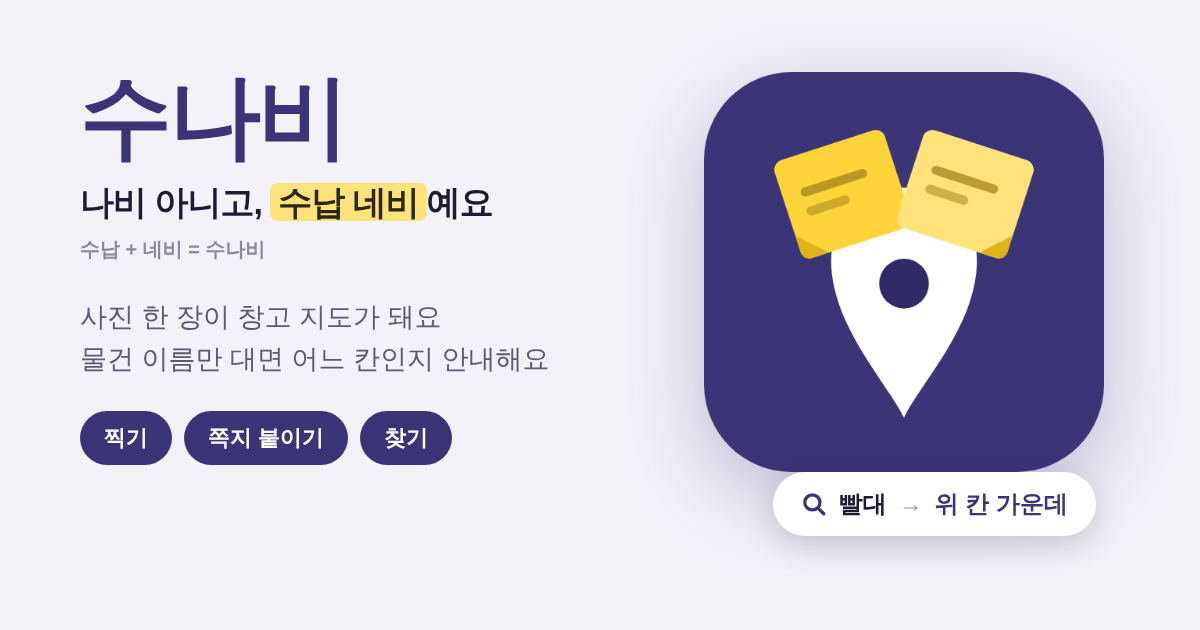
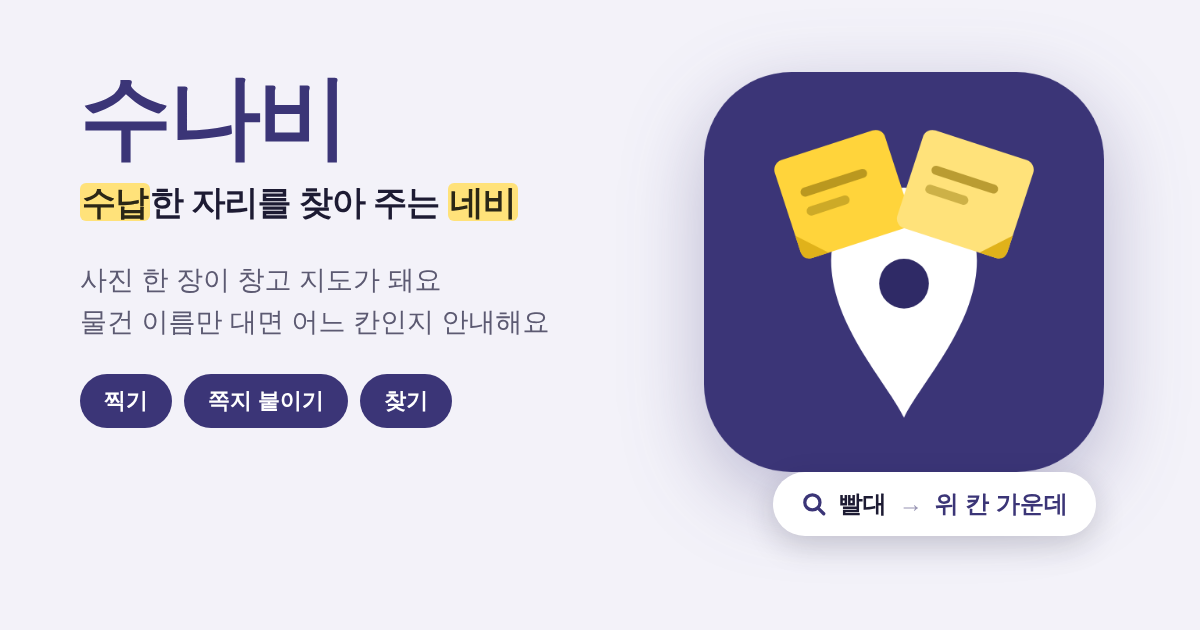
수나비 문구: '나비 아니고' 대신 '수납한 자리를 찾아 주는 네비'
- 부정하며 설명하지 않고, 문장 속 '수납'·'네비'를 노란 형광펜으로 살짝 칠해 읽다 보면 수나비 = 수납 + 네비인 걸 알게
- 첫 화면 이름 줄, 탭 제목, 공유 글·이미지, 설치 이름 모두 같은 문구로

Claude-Session: https://claude.ai/code/session_01YLzJYaCSw3RBoKxVptiud9

Changed region(s): [[0.0617, 0.2714, 0.4625, 0.754]]

diff --git a/index.html b/index.html
@@ -35,18 +35,18 @@
     <link rel="preconnect" href="https://cdn.jsdelivr.net" crossorigin>
     <link rel="stylesheet" href="https://cdn.jsdelivr.net/npm/@tabler/icons-webfont@latest/dist/tabler-icons.min.css" media="print" onload="this.media='all'">
     <noscript><link rel="stylesheet" href="https://cdn.jsdelivr.net/npm/@tabler/icons-webfont@latest/dist/tabler-icons.min.css"></noscript>
-    <title>수나비 - 나비 아니고, 수납 네비 · 사진으로 만드는 창고 지도</title>
+    <title>수나비 - 수납한 자리를 찾아 주는 네비 · 사진으로 만드는 창고 지도</title>
     <!-- 카톡·SNS 링크 미리보기 (이미지 주소는 반드시 전체 주소여야 카톡이 읽는다) -->
     <meta name="description" content="선반 사진을 구역으로 나누고 물건을 적으면, 검색 한 번으로 위치를 찾아요. A4로 뽑아 벽에 붙일 수도 있어요.">
     <meta property="og:type" content="website">
     <meta property="og:site_name" content="수나비">
-    <meta property="og:title" content="수나비 - 나비 아니고, 수납 네비예요">
+    <meta property="og:title" content="수나비 - 수납한 자리를 찾아 주는 네비">
     <meta property="og:description" content="선반 사진을 구역으로 나누고 물건을 적으면, 검색 한 번으로 위치를 찾아요.">
     <meta property="og:url" content="https://trafficjourney.github.io/udigo/">
     <meta property="og:image" content="https://trafficjourney.github.io/udigo/og-image.png?v=9">
     <meta property="og:image:width" content="1200">
     <meta property="og:image:height" content="630">
-    <meta property="og:image:alt" content="수나비: 나비 아니고, 수납 네비예요. 노란 쪽지 두 장이 날개처럼 붙은 위치 핀 아이콘과, 사진 한 장이 창고 지도가 된다는 소개">
+    <meta property="og:image:alt" content="수나비: 수납한 자리를 찾아 주는 네비. 노란 쪽지 두 장이 붙은 위치 핀 아이콘과, 사진 한 장이 창고 지도가 된다는 소개">
     <meta property="og:locale" content="ko_KR">
     <meta name="twitter:card" content="summary_large_image">
     <style>
@@ -1069,11 +1069,11 @@
         .welcome-sub { margin-top: 10px; font-size: 14px; line-height: 1.55; color: var(--text2); word-break: keep-all; }
         .brand-home { display: flex; align-items: center; background: none; border: 0; padding: 0; font: inherit; color: inherit; cursor: pointer; }
         .brand-icon { width: 1.35em; height: 1.35em; border-radius: 0.34em; margin-right: 7px; flex: none; }
-        /* 첫 화면 이름 줄: 수나비 = 수납 + 네비 (나비로 읽히는 걸 반전으로) */
+        /* 첫 화면 이름 줄: 문장 속 '수납'·'네비'를 살짝 칠해서, 읽다 보면 수나비 = 수납 + 네비인 걸 알게 */
         .welcome-brand { display: flex; align-items: center; justify-content: center; gap: 8px; margin: 0 0 10px; font-size: 14px; color: var(--text2); flex-wrap: wrap; }
         .welcome-brand img { width: 28px; height: 28px; border-radius: 8px; }
         .welcome-brand b { font-size: 18px; color: var(--text); letter-spacing: -0.3px; }
-        .welcome-brand mark { background: #ffe27a; color: #2b2716; padding: 0 4px; border-radius: 4px; font-weight: 700; }
+        .welcome-brand mark { background: #ffe27a; color: #2b2716; padding: 0 1px; border-radius: 3px; font-weight: 700; }
         body:not(.welcome-revisit) .revisit-only { display: none !important; }
         .welcome-back { display: inline-flex; margin: -16px 0 16px; }
         .install-banner-actions { display: flex; gap: 4px; flex-shrink: 0; }
@@ -1645,7 +1645,7 @@
             </g>
             <g class="welcome-hero-pin"><path d="M119 36 a12 12 0 1 1 24 0 c0 9 -12 20 -12 20 s-12 -11 -12 -20z" fill="var(--accent)"/><circle cx="131" cy="35" r="4.5" fill="var(--on-accent)"/></g>
         </svg>
-        <div class="welcome-brand"><img src="icon-192.png?v=8" alt=""><b data-app-name>수나비</b><span>나비 아니고, <mark>수납 네비</mark>예요</span></div>
+        <div class="welcome-brand"><img src="icon-192.png?v=8" alt=""><b data-app-name>수나비</b><span><mark>수납</mark>한 자리를 찾아 주는 <mark>네비</mark></span></div>
         <div class="welcome-beta"><span class="beta-pill"><i class="ti ti-flask"></i> 무료 베타 운영 중</span></div>
         <h2 class="welcome-title">사진 한 장이<br>창고 지도가 돼요</h2>
         <!-- 포스트잇과 다른 점: 선반 앞에 가지 않아도 물건 이름으로 자리를 찾는다 (넣을 때도, 꺼낼 때도) -->
